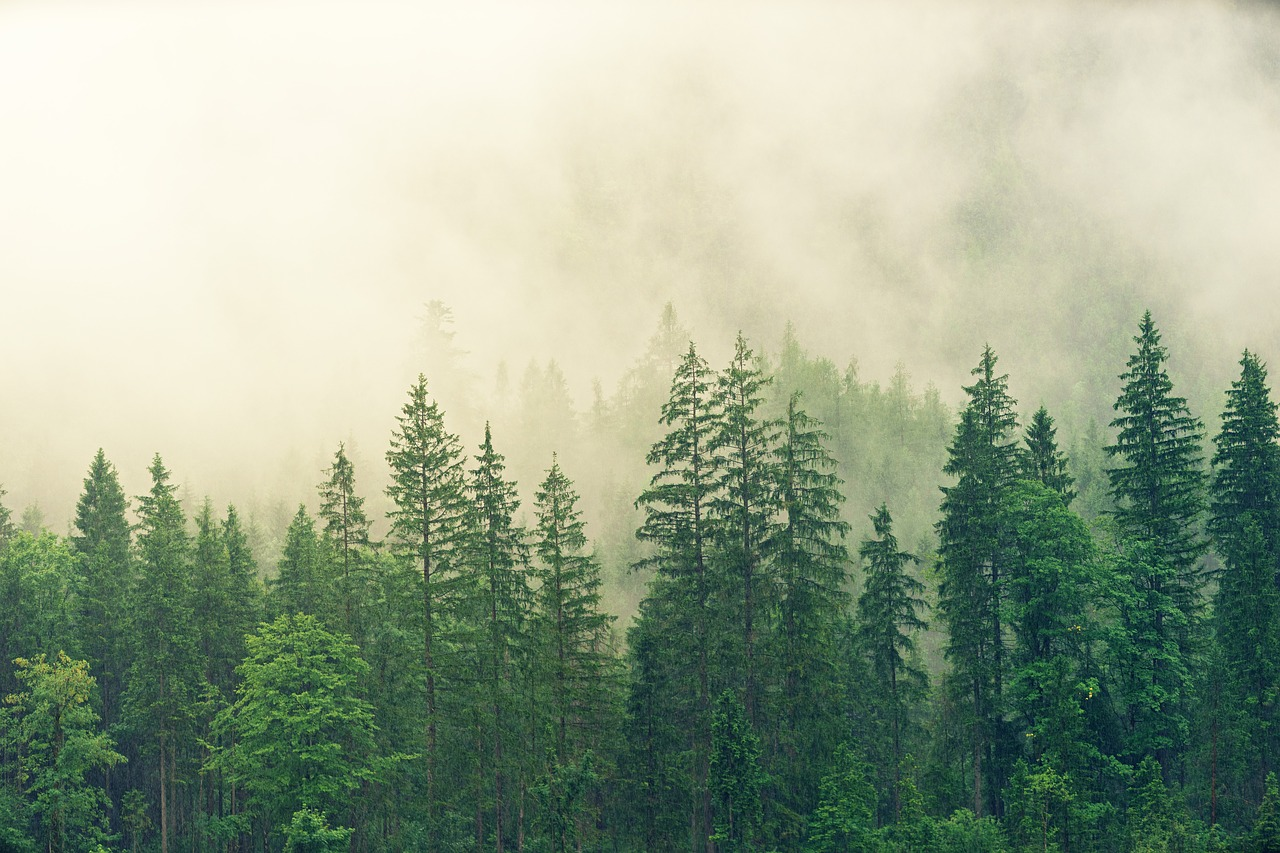
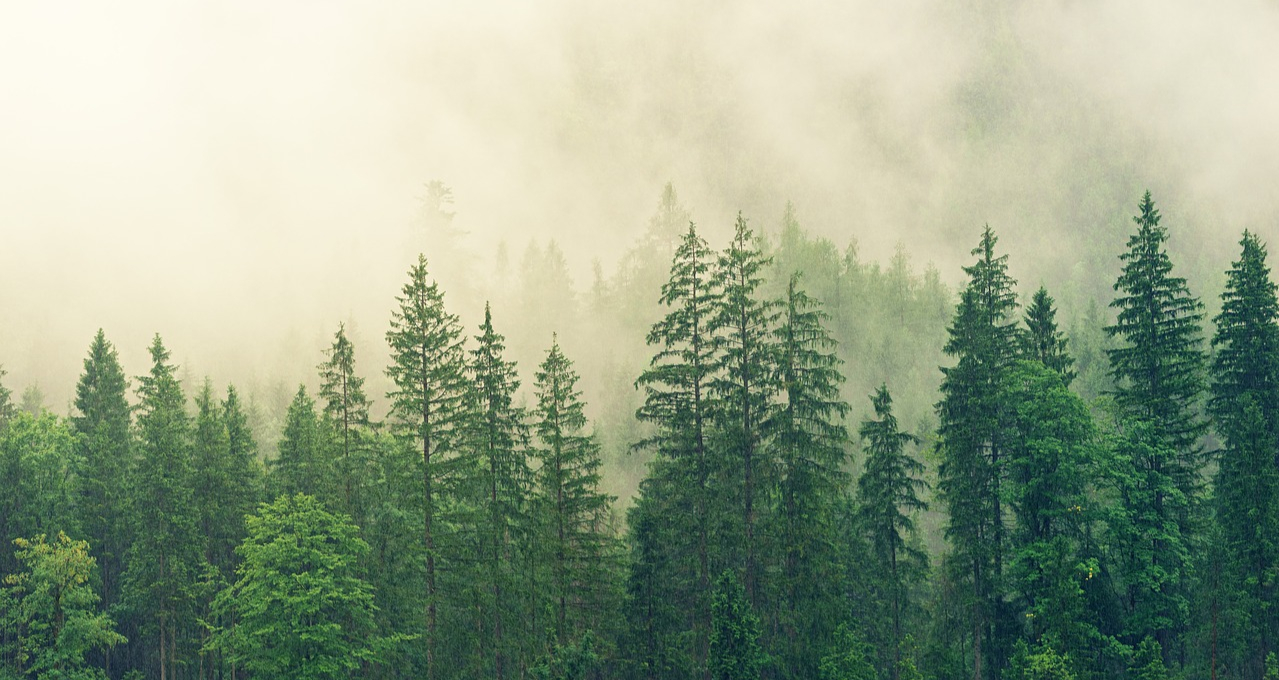
tidey up home page and change of images

diff --git a/index.html b/index.html
@@ -54,30 +54,26 @@
 		
 		<section class="main">
 			<div class="top">
-				<p class="main-text">Lorem ipsum dolor sit amet consectetur adipisicing elit. Earum aut sint quasi facilis nostrum ut doloribus commodi beatae ipsum, repudiandae exercitationem debitis. Ipsa nemo odio vel? Soluta optio commodi alias.</p>
+				<p class="main-text">Lorem ipsum dolor sit amet, consectetur adipisicing elit. Ipsam nulla veritatis, consequuntur quos quis minus omnis, maxime vitae labore exercitationem explicabo ad, tempore cumque cum harum quam illo consequatur excepturi est quia optio rerum praesentium! Mollitia adipisci repellat molestiae, temporibus nisi minus expedita perferendis tenetur facere, alias voluptatibus esse omnis ut eligendi obcaecati quisquam a. Rem necessitatibus perferendis, blanditiis, sapiente similique quis tempore! Ipsa fugit itaque aut cumque illum, quod maxime asperiores corporis consequuntur vel voluptas sapiente obcaecati in iste id, sint. Aspernatur numquam tempora dolorum dolores dignissimos nisi consectetur ipsum hic. Voluptatum cum qui ab similique vel, reprehenderit, molestias!</p>
 				<a class="rr" href="https://www.rotorriot.com/home" target="_blank">Inspiration</a>
 			</div>
 		</section>
 
 	<!--------------------START OF MIDDLE BACKGROUND IMAGE----------->
 
-		<section class="hero-img-mid">
-
-		</section>
+		<section class="hero-mid"></section>
 
 	<!--------------------------START OF SECTION TWO-------------------->
 		
 		<section class="main">
 			<div class="bottom">
-				<p class="main-text">Lorem ipsum dolor sit amet consectetur adipisicing elit. Earum aut sint quasi facilis nostrum ut doloribus commodi beatae ipsum, repudiandae exercitationem debitis. Ipsa nemo odio vel? Soluta optio commodi alias.</p>
+				<p class="main-text">Lorem ipsum dolor sit amet, consectetur adipisicing elit. Molestias totam cupiditate qui officia modi aliquam natus, porro accusamus aperiam, ipsam vero excepturi libero dicta laborum eos molestiae harum cumque dolorum rerum. Perferendis expedita nobis itaque quas vel fugit numquam! Quia id vitae atque, doloribus omnis quibusdam voluptas fugiat optio eum maxime, mollitia qui possimus saepe eaque iste natus incidunt nostrum, placeat et asperiores voluptatum dignissimos deleniti. Autem nisi eum beatae dolores, dolore alias minima tempore, ipsum optio qui iusto veritatis deserunt ipsam quas eos, quod numquam accusantium quos nostrum quisquam! Tenetur ut maiores, accusantium dicta nihil sapiente quia quam blanditiis.</p>
 			</div>
 		</section>
 
 	<!--------------------START OF BOTTOM BACKGROUND IMAGE----------->
 
-		<section class="hero-img-middle">
-
-		</section>
+		<section class="hero-bot"></section>
 
 	<!----------------------------START OF FOOTER-------------------->
 
@@ -89,18 +85,18 @@
 				</form>
 			</div>
 			<div class="footer-col">
-				<div class="soc-med-icon">
-					<a href="https://twitter.com/GordonSizzle" target="_blank"><img src="img/twit-3.png"></a>
+				<div>
+					<a href="https://twitter.com/GordonSizzle" target="_blank"><img class="soc-med-icon" src="img/twit-3.png"></a>
 				</div>
-				<div class="soc-med-icon">
-					<a href="https://www.instagram.com/gordon_smith1/" target="_blank"><img src="img/insta-3.png"></a>
+				<div>
+					<a href="https://www.instagram.com/gordon_smith1/" target="_blank"><img class="soc-med-icon" src="img/insta-3.png"></a>
 				</div>
-				<div class="soc-med-icon">
-					<a href="https://www.facebook.com/profile.php?id=100008493226872" target="_blank"><img src="img/face-3.png"></a>
+				<div>
+					<a href="https://www.facebook.com/profile.php?id=100008493226872" target="_blank"><img class="soc-med-icon" src="img/face-3.png"></a>
 				</div>
 			</div>
 			<div class="footer-col">
-
+				<p>Gordon Smith, &copy; 2019</p>
 			</div>
 		</footer>
 	</body>

diff --git a/css/styles.css b/css/styles.css
@@ -1,5 +1,6 @@
 body {
     background-color: #223;
+    color: #888;
 }
 
 .nav-bar {
@@ -18,12 +19,12 @@ body {
 }
 
 .nav-text {
-    color: #888;
+    color: #889;
     text-decoration: none;
 }
 
 .nav-text:HOVER {
-    color: #333;
+    color: #bbb;
 }
 
 .logo {
@@ -49,11 +50,35 @@ body {
 
 .down-arrow {
     width: 85px;
-    margin: 240px 595px 0px 595px;
+    margin: 220px 0px 0px 582px;
 }
 
-.hero-img-mid {
+.main {
+    height: 275px;
+    text-align: center;
+}
+
+.hero-mid {
     background-image: url(../img/hero-mid.jpg);
-    height: 852px;
+    height: 360px;
 }
 
+.hero-bot {
+    background-image: url(../img/hero-bot.jpg);
+    height: 360px;
+}
+
+.footer {
+    height: 75px;
+}
+
+.footer-col {
+    width: 30%;
+    margin: 0 auto;
+    float: left;
+}
+
+.soc-med-icon {
+    width: 30px;
+    float: left;
+}
